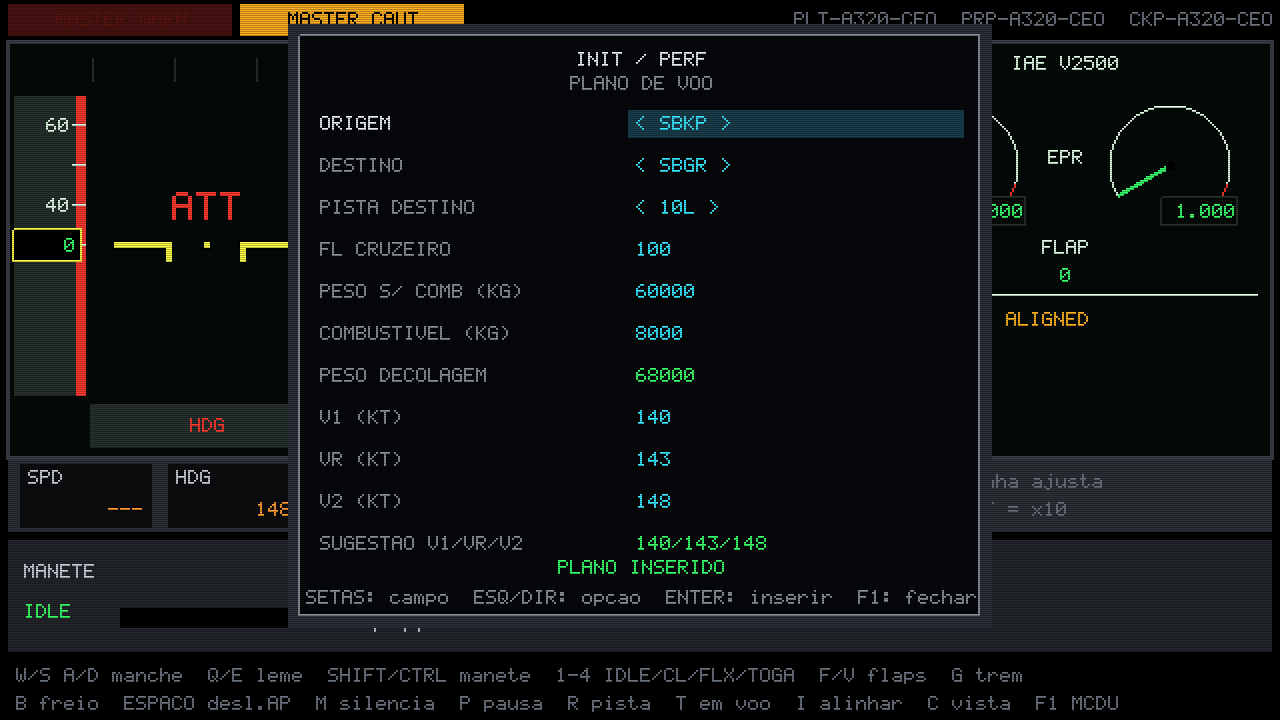
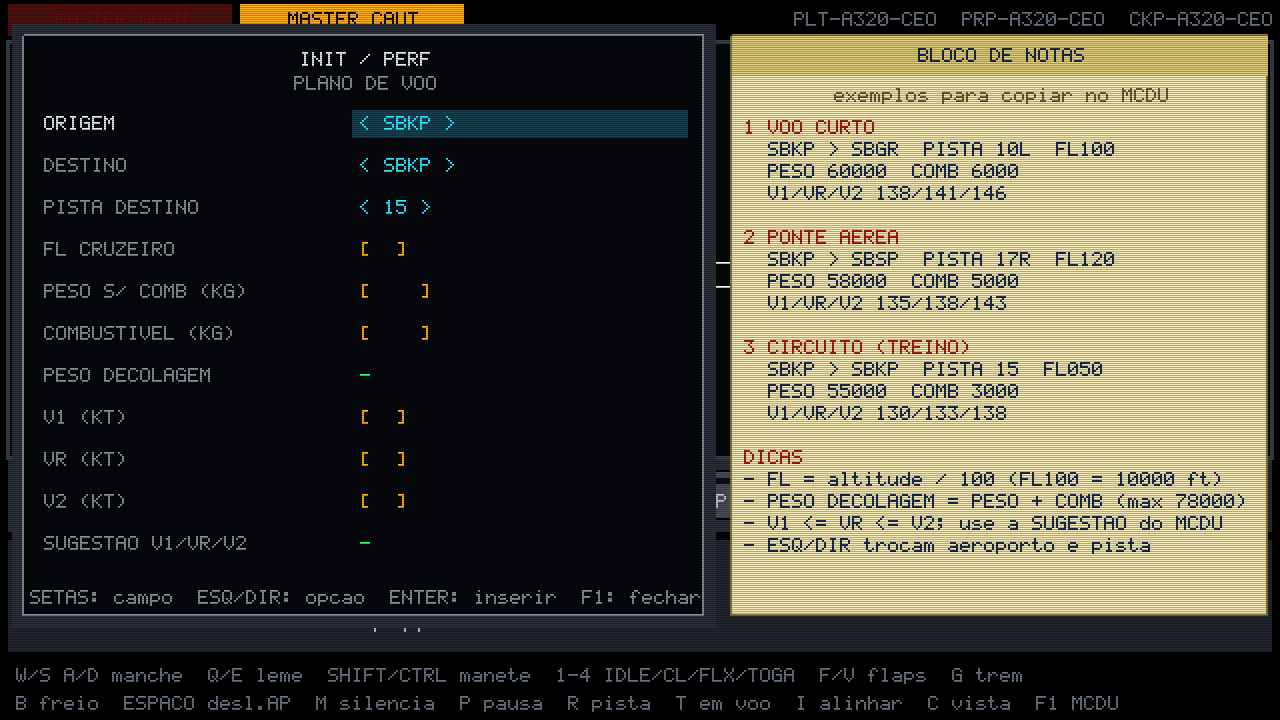
feat: bloco de notas ao lado do MCDU com planos de exemplo e dicas

diff --git a/cockpit/src/main/java/br/a320sim/cockpit/mcdu/McduPanel.java b/cockpit/src/main/java/br/a320sim/cockpit/mcdu/McduPanel.java
@@ -12,6 +12,7 @@ import com.badlogic.gdx.graphics.Color;
  * O MCDU (F1 na cabine): o aluno preenche origem, destino, cruzeiro, pesos e V1/VR/V2 antes de decolar.
  * Desenhado como a tela do MCDU: fundo preto, rótulos brancos, valores em ciano, campos vazios
  * obrigatórios como caixinhas âmbar e erros em vermelho. ENTER insere (publica o plano no barramento).
+ * Ao lado, um bloco de notas com exemplos de planos e dicas ({@link McduNotes}).
  */
 public final class McduPanel {
 
@@ -23,8 +24,14 @@ public final class McduPanel {
     private static final Color AMBER = Color.valueOf("ffb020");
     private static final Color RED = Color.valueOf("ff3a30");
     private static final Color GREY = Color.valueOf("8a909a");
+    private static final Color NOTE_PAPER = Color.valueOf("f2e8b8");
+    private static final Color NOTE_HEADER = Color.valueOf("e0cf80");
+    private static final Color NOTE_LINE = Color.valueOf("8a7a40");
+    private static final Color NOTE_INK = Color.valueOf("1e2a4a");
+    private static final Color NOTE_SOFT = Color.valueOf("6a6040");
+    private static final Color NOTE_RED = Color.valueOf("a02020");
 
-    private static final float X = 150;
+    private static final float X = 12;
     private static final float Y = 52;
     private static final float W = 340;
     private static final float H = 290;
@@ -116,5 +123,23 @@ public final class McduPanel {
             d.text(status, X + W / 2, Y + 24, statusOk ? GREEN : RED, Align.CENTER);
         }
         d.text("SETAS: campo  ESQ/DIR: opcao  ENTER: inserir  F1: fechar", X + W / 2, Y + 9, GREY, Align.CENTER);
+        notes(d);
+    }
+
+    /** Bloco de notas à direita: papel amarelado com os exemplos e as dicas. */
+    private void notes(Draw d) {
+        float nx = X + W + 14;
+        float nw = 640 - nx - 6;
+        d.rect(nx, Y, nw, H, NOTE_PAPER);
+        d.frame(nx, Y, nw, H, NOTE_LINE);
+        d.rect(nx, Y + H - 20, nw, 20, NOTE_HEADER);
+        d.text("BLOCO DE NOTAS", nx + nw / 2, Y + H - 10, NOTE_INK, Align.CENTER);
+        d.text("exemplos para copiar no MCDU", nx + nw / 2, Y + H - 30, NOTE_SOFT, Align.CENTER);
+        float y = Y + H - 46;
+        for (String line : McduNotes.lines()) {
+            boolean title = !line.isEmpty() && (Character.isDigit(line.charAt(0)) || line.equals("DICAS"));
+            d.text(line, nx + 6, y, title ? NOTE_RED : NOTE_INK, Align.LEFT);
+            y -= 11;
+        }
     }
 }

diff --git a/cockpit/src/main/java/br/a320sim/cockpit/mcdu/McduNotes.java b/cockpit/src/main/java/br/a320sim/cockpit/mcdu/McduNotes.java
@@ -1,0 +1,57 @@
+package br.a320sim.cockpit.mcdu;
+
+import br.a320sim.host.plan.FlightPlan;
+
+import java.util.ArrayList;
+import java.util.List;
+
+/**
+ * O "bloco de notas" ao lado do MCDU: exemplos de planos de voo válidos para o aluno copiar
+ * e dicas de como preencher. As velocidades vêm da mesma sugestão que o MCDU mostra.
+ */
+public final class McduNotes {
+
+    /** Largura do bloco em caracteres da fonte pixel. */
+    public static final int WIDTH_CHARS = 44;
+
+    /** Um exemplo com nome e o plano (sempre válido: o teste confere). */
+    public record Example(String name, FlightPlan plan) {
+    }
+
+    private McduNotes() {
+    }
+
+    public static List<Example> examples() {
+        return List.of(
+                example("VOO CURTO", "SBKP", "SBGR", "10L", 100, 60_000, 6_000),
+                example("PONTE AEREA", "SBKP", "SBSP", "17R", 120, 58_000, 5_000),
+                example("CIRCUITO (TREINO)", "SBKP", "SBKP", "15", 50, 55_000, 3_000));
+    }
+
+    private static Example example(String name, String from, String to, String runway, int fl, int zfw, int fuel) {
+        int tow = zfw + fuel;
+        return new Example(name, new FlightPlan(from, to, runway, fl, zfw, fuel, FlightPlan.suggestedV1(tow),
+                FlightPlan.suggestedVr(tow), FlightPlan.suggestedV2(tow)));
+    }
+
+    /** As linhas do bloco, já no formato da tela (ASCII, sem acento). */
+    public static List<String> lines() {
+        List<String> lines = new ArrayList<>();
+        int n = 1;
+        for (Example e : examples()) {
+            FlightPlan p = e.plan();
+            lines.add(n++ + " " + e.name());
+            lines.add("  " + p.origin() + " > " + p.destination() + "  PISTA " + p.runway() + "  FL"
+                    + String.format("%03d", p.cruiseFl()));
+            lines.add("  PESO " + p.zfwKg() + "  COMB " + p.fuelKg());
+            lines.add("  V1/VR/V2 " + p.v1() + "/" + p.vr() + "/" + p.v2());
+            lines.add("");
+        }
+        lines.add("DICAS");
+        lines.add("- FL = altitude / 100 (FL100 = 10000 ft)");
+        lines.add("- PESO DECOLAGEM = PESO + COMB (max 78000)");
+        lines.add("- V1 <= VR <= V2; use a SUGESTAO do MCDU");
+        lines.add("- ESQ/DIR trocam aeroporto e pista");
+        return lines;
+    }
+}

diff --git a/cockpit/src/test/java/br/a320sim/cockpit/mcdu/McduNotesTest.java b/cockpit/src/test/java/br/a320sim/cockpit/mcdu/McduNotesTest.java
@@ -1,0 +1,31 @@
+package br.a320sim.cockpit.mcdu;
+
+import org.junit.jupiter.api.Test;
+
+import java.util.Map;
+
+import static org.junit.jupiter.api.Assertions.assertEquals;
+import static org.junit.jupiter.api.Assertions.assertTrue;
+
+class McduNotesTest {
+
+    @Test
+    void todosOsExemplosSaoPlanosValidos() {
+        for (McduNotes.Example e : McduNotes.examples()) {
+            assertEquals(Map.of(), e.plan().validate(), e.name());
+        }
+    }
+
+    @Test
+    void textoCabeNoBlocoESoTemAscii() {
+        for (String line : McduNotes.lines()) {
+            assertTrue(line.length() <= McduNotes.WIDTH_CHARS, "longa demais: " + line);
+            assertTrue(line.chars().allMatch(c -> c >= 32 && c < 127), "a fonte pixel so tem ASCII: " + line);
+        }
+    }
+
+    @Test
+    void exemploVooCurtoComAsVelocidadesSugeridas() {
+        assertEquals("  V1/VR/V2 138/141/146", McduNotes.lines().get(3), "66 t de peso de decolagem");
+    }
+}

diff --git a/README.md b/README.md
@@ -235,7 +235,7 @@ Na cabine, **F1** abre o MCDU (página INIT/PERF). O aluno preenche, antes de de
 | Combustível | de 1.000 a 18.700 kg; o peso de decolagem (os dois somados) não pode passar de 78.000 kg |
 | V1, VR, V2 | de 100 a 180 kt, com V1 ≤ VR ≤ V2; o MCDU mostra as velocidades sugeridas para o peso |
 
-Setas trocam de campo e de opção, **ENTER** insere, **F1** ou **ESC** fecha. Enquanto o MCDU está aberto, o teclado não pilota (o avião segue com os últimos comandos). Campos obrigatórios vazios aparecem como caixinhas âmbar, como no avião de verdade; erros em vermelho.
+Ao lado do MCDU fica um **bloco de notas** com três planos de exemplo prontos para copiar (voo curto para Guarulhos, ponte para Congonhas e um circuito em Viracopos) e dicas de preenchimento. Setas trocam de campo e de opção, **ENTER** insere, **F1** ou **ESC** fecha. Enquanto o MCDU está aberto, o teclado não pilota (o avião segue com os últimos comandos). Campos obrigatórios vazios aparecem como caixinhas âmbar, como no avião de verdade; erros em vermelho.
 
 Plano inserido:
 
